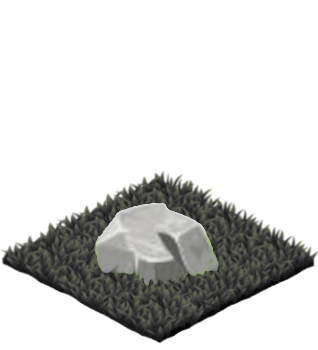
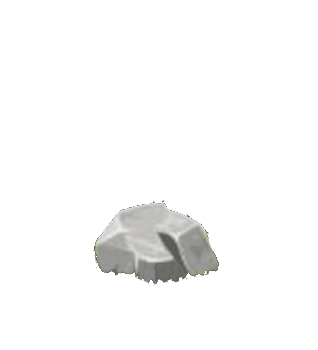
Add surfaces

Changed region(s): [[0.0, 0.4857, 1.0, 1.0]]

diff --git a/core/src/com/nicweiss/editor/Views/Editor.java b/core/src/com/nicweiss/editor/Views/Editor.java
@@ -32,31 +32,43 @@ public class Editor extends View{
     int selectedTileX, selectedTileY;
     int mouseX, mouseY;
     float cm = 0.01f;
-    int[] lightObjectIds;
+    int[] lightObjectIds, surfacesIds;
     boolean isImmediatelyReleaseKey = false;
     boolean isUiTouched = false;
 
 
     public Editor(){
         lightObjectIds = new int[] {11};
+        surfacesIds = new int [] {1, 10};
 
         hintUp = new Texture("tile_hint_up.png");
         hintDown = new Texture("tile_hint_down.png");
 
         textures = new TextureObject[] {
-                new TextureObject("gp_0.png", 0),
-                new TextureObject("gp_1.png", 0),
-                new TextureObject("gp_2.png", 50),
-                new TextureObject("gp_3.png", 50),
-                new TextureObject("gp_4.png", 20),
-                new TextureObject("gp_5.png", 2),
-                new TextureObject("gp_6.png", 4),
-                new TextureObject("gp_7.png", 10),
-                new TextureObject("gp_8.png", 1),
-                new TextureObject("gp_9.png", 50),
-                new TextureObject("gp_10.png", 0),
-                new TextureObject("gp_11.png", 5)
-
+            new TextureObject("gp_0.png", 0),
+            new TextureObject("gp_1.png", 0),
+            new TextureObject("gp_2.png", 50),
+            new TextureObject("gp_3.png", 50),
+            new TextureObject("gp_4.png", 20),
+            new TextureObject("gp_5.png", 2),
+            new TextureObject("gp_6.png", 4),
+            new TextureObject("gp_7.png", 10),
+            new TextureObject("gp_8.png", 1),
+            new TextureObject("gp_9.png", 50),
+            new TextureObject("gp_10.png", 0),
+            new TextureObject("gp_11.png", 5),
+            new TextureObject("gp_12.png", 0),
+            new TextureObject("gp_13.png", 0),
+            new TextureObject("gp_14.png", 0),
+            new TextureObject("gp_15.png", 0),
+            new TextureObject("gp_16.png", 0),
+            new TextureObject("gp_17.png", 0),
+            new TextureObject("gp_18.png", 0),
+            new TextureObject("gp_19.png", 0),
+            new TextureObject("gp_20.png", 0),
+            new TextureObject("gp_21.png", 0),
+            new TextureObject("gp_22.png", 0),
+            new TextureObject("gp_23.png", 0)
         };
 
         store.tileSizeWidth = tileSizeX = 158 / store.tileDownScale;
@@ -91,19 +103,30 @@ public class Editor extends View{
             for(int j = 0; j<store.mapWidth; j++) {
                 rn = perlinMap[i][j];
                 ts = 8;
-                if (rn > 30){ts=1;}
-                if (rn > 140){ts=3;}
-                if (rn > 253){ts=2;}
+                if (rn > 30) {
+                    ts = 1;
+                }
+                if (rn > 140) {
+                    ts = 3;
+                }
+                if (rn > 253) {
+                    ts = 2;
+                }
 
 //                if (rn > 254){ts=4;}
-                if (rn == 249){
-                    ts=rand.nextInt(3) + 5;
+                if (rn == 249) {
+                    ts = rand.nextInt(3) + 5;
                 }
 
                 MapObject tmp = new MapObject();
-                tmp.setTexture(textures[ts].texture);
+
+                tmp.setSurfaceTexture(textures[1].texture);
+                tmp.setSurfaceId(1);
+
                 tmp.setObjectHeight(textures[ts].high);
+                tmp.setTexture(textures[ts].texture);
                 tmp.setTextureId(ts);
+
                 tmp.xPositionOnMap = i+1;
                 tmp.yPositionOnMap = j+1;
                 tmp.generateAndSetUUID();
@@ -172,8 +195,14 @@ public class Editor extends View{
 
 //                Обновление элемента карты
             store.objectedMap[arrPointX][arrPointY].setTexture(textures[newTextureId].texture);
-            store.objectedMap[arrPointX][arrPointY].setObjectHeight(textures[newTextureId].high);
             store.objectedMap[arrPointX][arrPointY].setTextureId(newTextureId);
+
+            if (ArrayUtils.checkIntInArray(newTextureId, surfacesIds)){
+                store.objectedMap[arrPointX][arrPointY].setSurfaceTexture(textures[newTextureId].texture);
+                store.objectedMap[arrPointX][arrPointY].setSurfaceId(newTextureId);
+            }
+
+            store.objectedMap[arrPointX][arrPointY].setObjectHeight(textures[newTextureId].high);
             store.objectedMap[arrPointX][arrPointY].setWidth(textures[newTextureId].texture.getWidth() / store.tileDownScale);
             store.objectedMap[arrPointX][arrPointY].setHeight(textures[newTextureId].texture.getHeight() / store.tileDownScale);
 
@@ -354,6 +383,37 @@ public class Editor extends View{
         int e2 = ((store.shiftX / (tileSizeX*2)) - (store.shiftY / (tileSizeY)))-(int)fc;
 
 //        Отрисовка карты
+//        1 Поверхности
+        for (int i=Math.min(d, store.mapHeight); i > Math.max(e1,0); i--) {
+            mapI = i - 1;
+
+            for (int j = Math.min(e2 + (int) (fc * 2), store.mapWidth); j > Math.max(e2, 0); j--) {
+                mapJ = j - 1;
+
+//                Ограничение отрисовки на основе отрисовывемого элемента
+                point = transform.cartesianToIsometric(i * tileSizeX, j * tileSizeY);
+
+                if (point[0] + store.shiftX - (tileSizeX * 2) > store.display.get("width")) {
+                    break;
+                }
+                if (point[1] + store.shiftY + (tileSizeX * 2) < 0) {
+                    break;
+                }
+
+                if (point[0] + store.shiftX + (tileSizeX * 2) < 0) {
+                    continue;
+                }
+                if (point[1] + store.shiftY - (tileSizeY * 2) > store.display.get("height")) {
+                    continue;
+                }
+
+                store.objectedMap[mapI][mapJ].drawSurface(batch);
+                store.objectedMap[mapI][mapJ].isPlayerInside = false;
+                store.objectedMap[mapI][mapJ].isRenderLighAndNigth = true;
+            }
+        }
+
+//        Объекты на поверхностях
         for (int i=Math.min(d, store.mapHeight); i > Math.max(e1,0); i--)
         {
             mapI = i - 1;
@@ -411,7 +471,12 @@ public class Editor extends View{
                 }
 
 //                Рисуем существ на карте
-                renderCreations(batch, mapI, mapJ);
+//                На основной клетке
+                renderCreations(batch, mapI, mapJ, false);
+
+//                на смежных, если они на уровне земли
+                renderCreations(batch, mapI, mapJ+1, true);
+                renderCreations(batch, mapI+1, mapJ, true);
             }
         }
     }
@@ -421,11 +486,19 @@ public class Editor extends View{
         userInterface.render(uiBatch);
     }
 
-    public void renderCreations(SpriteBatch batch, int mapI, int mapJ) {
+    public void renderCreations(SpriteBatch batch, int mapI, int mapJ, boolean filterByHeight) {
         for (Creation creation: store.creations) {
             if (creation != null){
                 if (creation.mapCellX != (mapI+1) || creation.mapCellY != (mapJ+1) ){
                     continue;
+                }
+
+                if (filterByHeight) {
+                    MapObject el = store.objectedMap[mapI][mapJ];
+
+                    if (el.getHeight() != 0) {
+                        continue;
+                    }
                 }
 
                 creation.draw(batch);

diff --git a/core/src/com/nicweiss/editor/Generic/BaseObject.java b/core/src/com/nicweiss/editor/Generic/BaseObject.java
@@ -19,12 +19,12 @@ public class BaseObject implements Cloneable {
     protected float y_scale = 1;
     protected int width = 0;
     protected int height = 0;
-    protected Texture img, bgImg;
+    protected Texture img, bgImg, surfaceImg;
     protected float rotation = 0;
     protected float opacity = 1;
     protected boolean deleted = false;
     protected String objectId;
-    protected int textureId;
+    protected int textureId, surfaceId;
     protected String uuid;
 
     protected float defaultLight = (float)0.2;
@@ -37,6 +37,11 @@ public class BaseObject implements Cloneable {
     public boolean isEnableRenderLimits = false;
 
     public void draw(Batch batch) {
+        if (surfaceImg != null && surfaceId == textureId) {
+            return;
+        }
+
+        if (img == null) return;
         if (isEnableRenderLimits) {
             if (x + img.getWidth() < 0 || x > store.display.get("width")) {
                 return;
@@ -46,7 +51,6 @@ public class BaseObject implements Cloneable {
             }
         }
 
-        if (img == null) return;
         if (deleted) return;
 
         if (bgImg != null && isTouched) {
@@ -60,22 +64,52 @@ public class BaseObject implements Cloneable {
                     img.getWidth()+5, img.getHeight()+5,
                     false, false);
         }
-
-        batch.draw(img,
+        if (img != null) {
+            batch.draw(img,
                 x, y,
                 0, 0,
-                (float)width * x_scale, (float)height * y_scale,
+                (float) width * x_scale, (float) height * y_scale,
                 1, 1,
                 rotation,
                 0, 0,
                 img.getWidth(), img.getHeight(),
                 false, false);
+        }
+    }
+
+    public void drawSurface(Batch batch) {
+        if (isEnableRenderLimits) {
+            if (x + img.getWidth() < 0 || x > store.display.get("width")) {
+                return;
+            }
+            if (y + img.getHeight() < 0 || y > store.display.get("height")) {
+                return;
+            }
+        }
+
+        if (surfaceImg == null) {
+            return;
+        }
+
+        batch.draw(surfaceImg,
+            x, y,
+            0, 0,
+            (float) width * x_scale, (float) height * y_scale,
+            1, 1,
+            rotation,
+            0, 0,
+            surfaceImg.getWidth(), surfaceImg.getHeight(),
+            false, false);
     }
 
     public void setTexture(Texture texture) {
         img = texture;
         width = img.getWidth();
         height = img.getHeight();
+    }
+
+    public void setSurfaceTexture(Texture texture) {
+        surfaceImg = texture;
     }
 
     public Texture getTexture() {
@@ -179,6 +213,10 @@ public class BaseObject implements Cloneable {
 
     public void setTextureId(int textureId) {
         this.textureId = textureId;
+    }
+
+    public void setSurfaceId(int textureId) {
+        this.surfaceId = textureId;
     }
 
     public float getWidth() {

diff --git a/core/src/com/nicweiss/editor/objects/MapObject.java b/core/src/com/nicweiss/editor/objects/MapObject.java
@@ -63,6 +63,45 @@ public class MapObject  extends BaseObject {
         super.draw(batch);
     }
 
+    public void drawSurface(Batch batch) {
+        calcPosition();
+        if (isRenderLighAndNigth) {
+            if (store.dayCoefficient < 0.4) {
+                if (store.isSelectedLightObject) {
+                    calcLight("player");
+                } else {
+                    dynamicLightRed = (float) 0.2;
+                    dynamicLightGreen = (float) 0.2;
+                    dynamicLightBlue = (float) 0.2;
+                }
+
+                batch.setColor(
+                    Math.max(staticLightRed, dynamicLightRed) + store.dayCoefficient,
+                    Math.max(staticLightGreen, dynamicLightGreen) + store.dayCoefficient,
+                    Math.max(staticLightBlue, dynamicLightBlue) + store.dayCoefficient,
+                    opacity
+                );
+            } else {
+                batch.setColor(
+                    (float) 0.2 + store.dayCoefficient,
+                    (float) 0.2 + store.dayCoefficient,
+                    (float) 0.2 + store.dayCoefficient,
+                    opacity
+                );
+            }
+        }
+
+        if (isDialogBind){
+            batch.setColor(
+                0.56f - store.dayCoefficient / 4,
+                0.77f - store.dayCoefficient / 4,
+                0.55f - store.dayCoefficient / 4,
+                opacity
+            );
+        }
+
+        super.drawSurface(batch);
+    }
 
     public void calcLight(String environment){
         float dark;

diff --git a/CHANGES.MD b/CHANGES.MD
@@ -1,3 +1,10 @@
+16.03.2025 23:52
+==========================
+    - Добавлены новые текстуры (Дороги и мост через реку)
+    - Переработаны старые текстуры
+    - Введён подход отдельных поверхностей
+    - Поверхности ренднрятся отдельно перед рендером элементов
+
 18.09.2024 00:15
 ==========================
     - Реализовано сохранение и загрузка диалогов в общий файл карты
